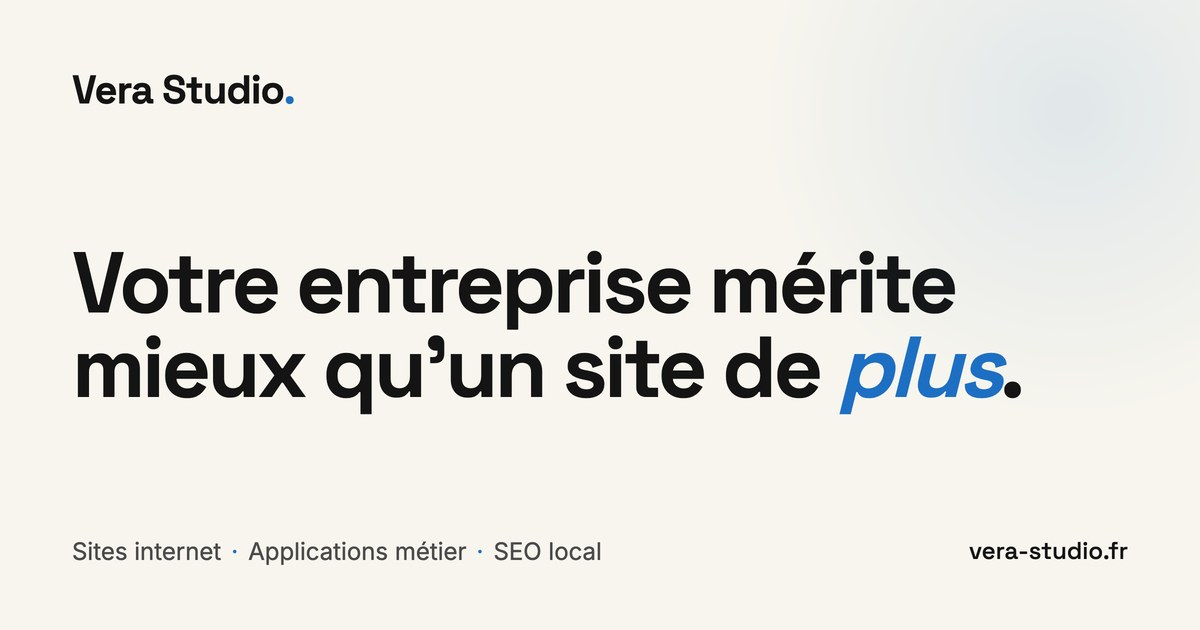
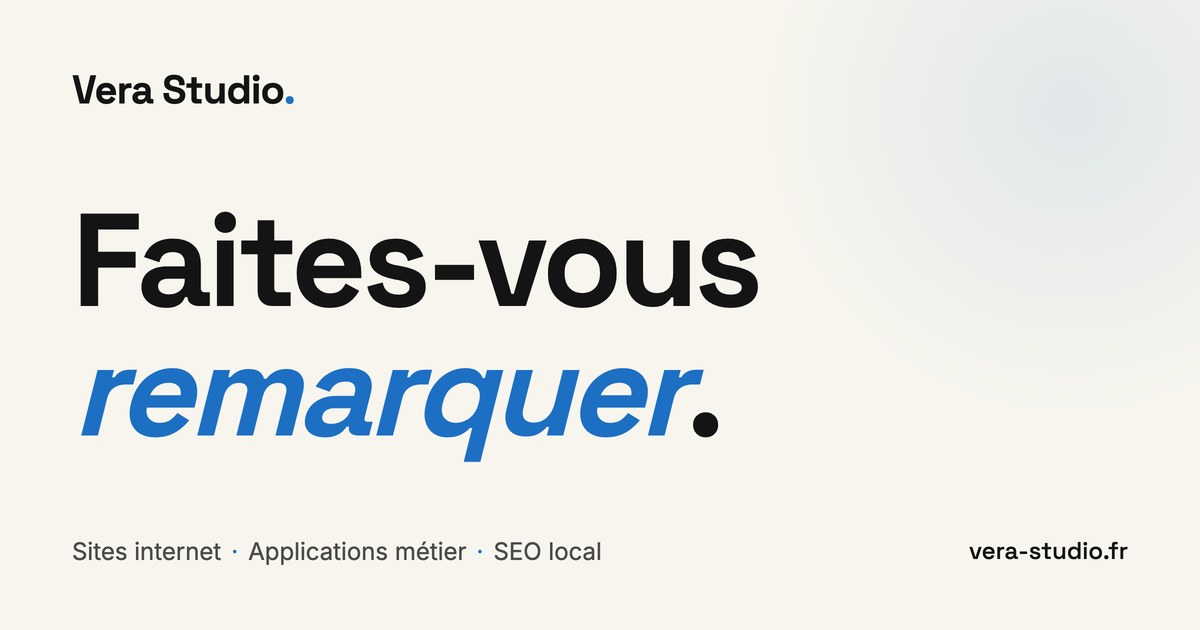
V8.83 · Nouveau titre d'accueil : « Faites-vous remarquer. »
Grand titre de l'accueil, titre de partage et image de partage alignés sur la nouvelle accroche, plus courte (« remarquer » en bleu).

Changed region(s): [[0.0617, 0.3317, 0.8633, 0.754]]

diff --git a/index.html b/index.html
@@ -9,7 +9,7 @@
 
 <meta property="og:type" content="website">
 <meta property="og:site_name" content="Vera Studio">
-<meta property="og:title" content="Votre entreprise mérite mieux qu'un site de plus · Vera Studio">
+<meta property="og:title" content="Faites-vous remarquer · Vera Studio">
 <meta property="og:description" content="Sites internet, applications métier et SEO local, pensés pour faire grandir votre activité. Premier rendez-vous offert, sans engagement.">
 <meta property="og:url" content="https://vera-studio.fr/">
 <meta property="og:image" content="https://www.vera-studio.fr/assets/og/og-accueil.jpg">
@@ -88,7 +88,7 @@
   <div class="hero-v8-inner">
     <span class="hero-v8-eyebrow reveal">◆ Le studio qui vous propulse au maximum de votre potentiel · Paris et Bordeaux</span>
     <h1 class="hero-v8-title reveal reveal-delay-1">
-      Votre entreprise mérite mieux qu'un site de <span class="accent">plus</span>.
+      Faites-vous <span class="accent">remarquer</span>.
     </h1>
     <p class="hero-v8-sub reveal reveal-delay-2">
       On crée le site, l'application ou la visibilité dont vous avez besoin pour faire évoluer votre activité.
